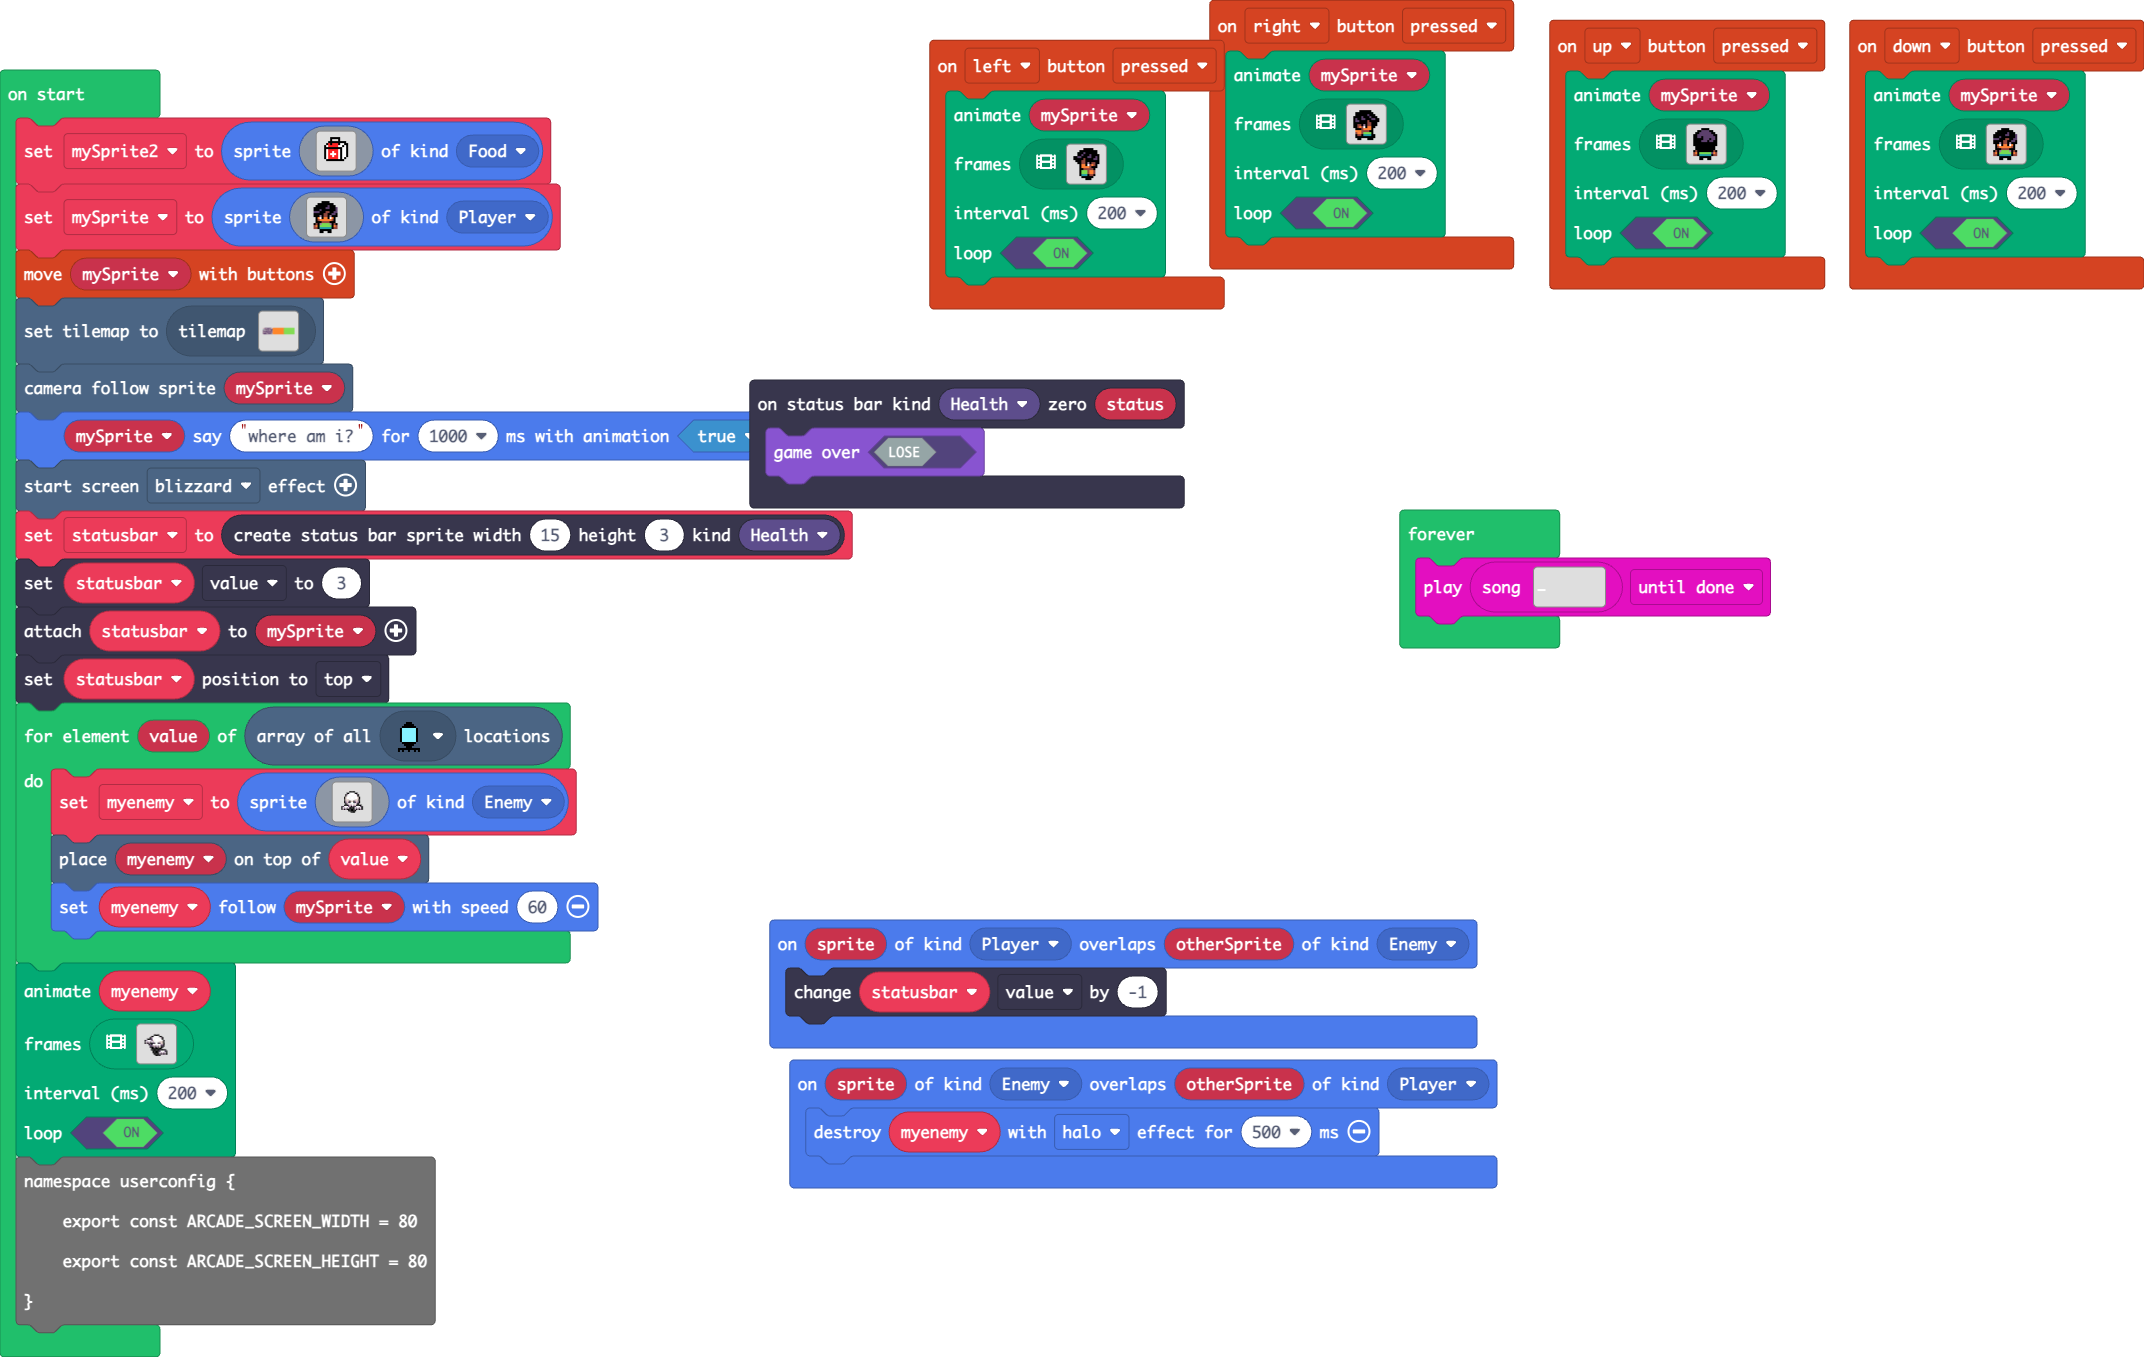
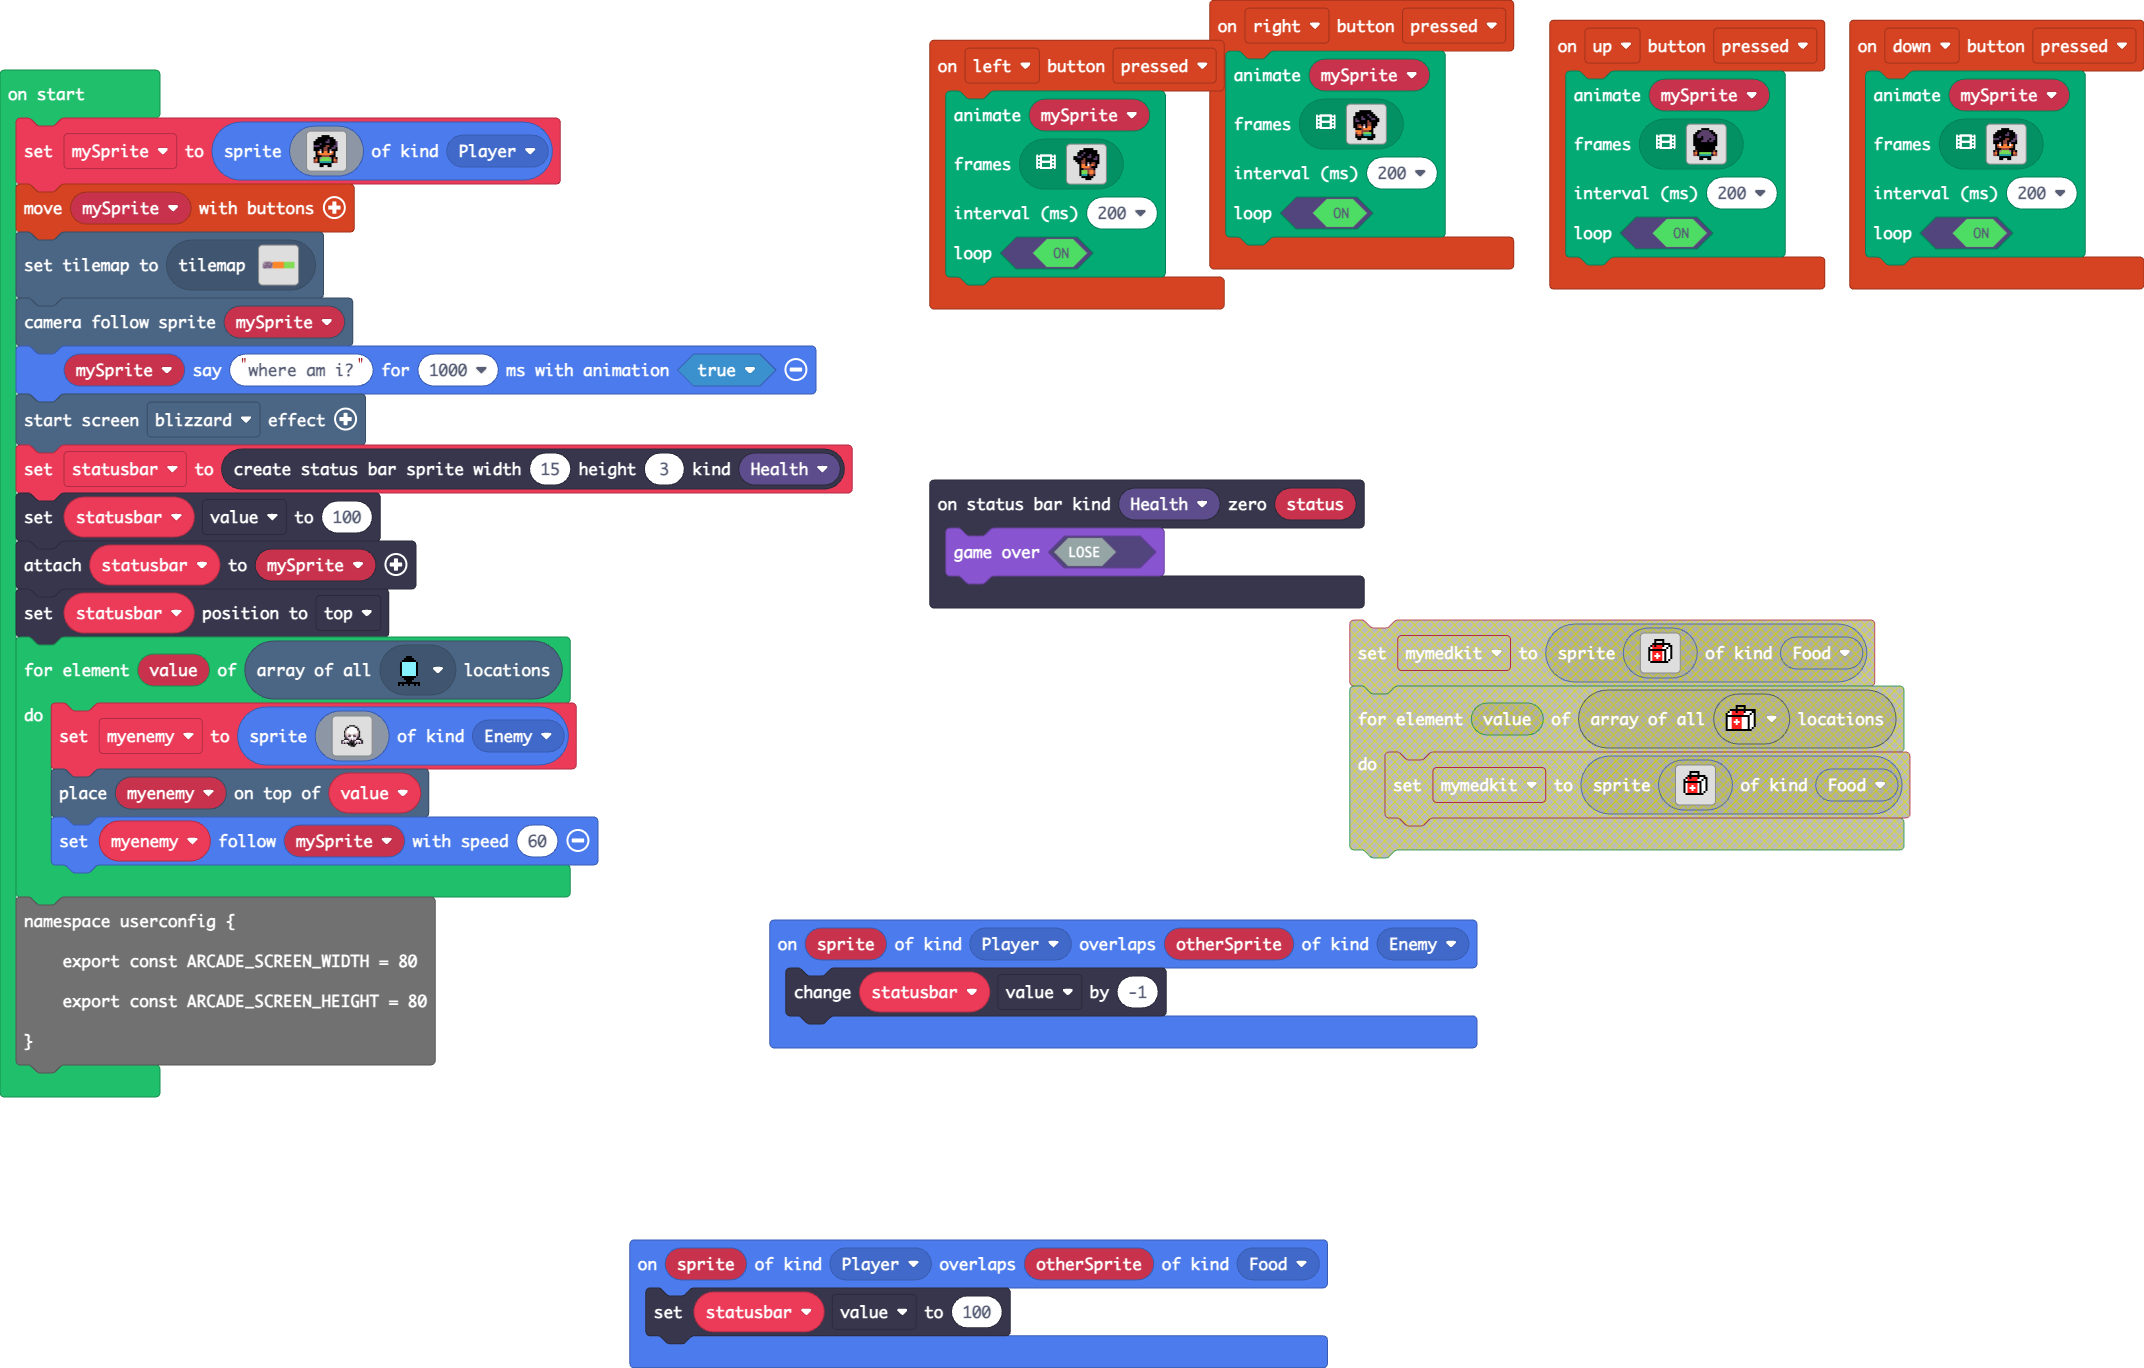
thing

diff --git a/tilemap.g.ts b/tilemap.g.ts
@@ -8,6 +8,8 @@ namespace myTiles {
     export const tile3 = image.ofBuffer(hex``);
     //% fixedInstance jres blockIdentity=images._tile
     export const tile4 = image.ofBuffer(hex``);
+    //% fixedInstance jres blockIdentity=images._tile
+    export const tile2 = image.ofBuffer(hex``);
 
     helpers._registerFactory("tilemap", function(name: string) {
         switch(helpers.stringTrim(name)) {
@@ -30,8 +32,27 @@ namespace myTiles {
 . . . . . . . . . . . . . . . . 
 . . . . . . . . . . . . . . . . 
 `, [myTiles.transparency16], TileScale.Sixteen);
+            case "level3":
+            case "level3":return tiles.createTilemap(hex`1000100000000000000000000000000000000000000000000000000000000000000000000000000000000000000000000000000000000000000000000000000000000000000000000000000000000000000000000000000000000000000000000000000000000000000000000000000000000000000000000000000000000000000000000000000000000000000000000000000000000000000000000000000000000000000000000000000000000000000000000000000000000000000000000000000000000000000000000000000000000000000000000000000000000000000000000000000000000000000000000000000000000000000000000000000000000000`, img`
+. . . . . . . . . . . . . . . . 
+. . . . . . . . . . . . . . . . 
+. . . . . . . . . . . . . . . . 
+. . . . . . . . . . . . . . . . 
+. . . . . . . . . . . . . . . . 
+. . . . . . . . . . . . . . . . 
+. . . . . . . . . . . . . . . . 
+. . . . . . . . . . . . . . . . 
+. . . . . . . . . . . . . . . . 
+. . . . . . . . . . . . . . . . 
+. . . . . . . . . . . . . . . . 
+. . . . . . . . . . . . . . . . 
+. . . . . . . . . . . . . . . . 
+. . . . . . . . . . . . . . . . 
+. . . . . . . . . . . . . . . . 
+. . . . . . . . . . . . . . . . 
+`, [myTiles.transparency16], TileScale.Sixteen);
             case "level":
[2 lines of base64/hex data omitted]
 22222.................2222......................................................
 22222..222222.........2222......................................................
 22222..2.......22222222.........................................................
@@ -61,6 +82,8 @@ namespace myTiles {
             case "tile3":return tile3;
             case "Enemy Spawner":
             case "tile4":return tile4;
+            case "MEDKIT":
+            case "tile2":return tile2;
         }
         return null;
     })

diff --git a/main.ts b/main.ts
@@ -127,9 +127,6 @@ controller.right.onEvent(ControllerButtonEvent.Pressed, function () {
     true
     )
 })
-sprites.onOverlap(SpriteKind.Enemy, SpriteKind.Player, function (sprite, otherSprite) {
-    sprites.destroy(myenemy, effects.halo, 500)
-})
 controller.down.onEvent(ControllerButtonEvent.Pressed, function () {
     animation.runImageAnimation(
     mySprite,
@@ -189,13 +186,15 @@ controller.down.onEvent(ControllerButtonEvent.Pressed, function () {
     true
     )
 })
+sprites.onOverlap(SpriteKind.Player, SpriteKind.Food, function (sprite, otherSprite) {
+    statusbar.value = 100
+})
 sprites.onOverlap(SpriteKind.Player, SpriteKind.Enemy, function (sprite, otherSprite) {
     statusbar.value += -1
 })
 let myenemy: Sprite = null
 let statusbar: StatusBarSprite = null
 let mySprite: Sprite = null
-let mySprite2 = sprites.create(assets.image`Medkit`, SpriteKind.Food)
 mySprite = sprites.create(img`
     . . . . f f f f . . . . . 
     . . f f f f f f f f . . . 
@@ -220,7 +219,7 @@ scene.cameraFollowSprite(mySprite)
 mySprite.sayText("where am i?", 1000, true)
 effects.blizzard.startScreenEffect()
 statusbar = statusbars.create(15, 3, StatusBarKind.Health)
-statusbar.value = 3
+statusbar.value = 100
 statusbar.attachToSprite(mySprite)
 statusbar.positionDirection(CollisionDirection.Top)
 for (let value of tiles.getTilesByType(assets.tile`Enemy Spawner`)) {
@@ -228,116 +227,7 @@ for (let value of tiles.getTilesByType(assets.tile`Enemy Spawner`)) {
     tiles.placeOnTile(myenemy, value)
     myenemy.follow(mySprite, 60)
 }
-animation.runImageAnimation(
-myenemy,
-[img`
-    ........................
-    ........................
-    ........................
-    ........................
-    ........................
-    ..........ffff..........
-    ........ff1111ff........
-    .......fb111111bf.......
-    .....fffc1111111f.......
-    ...fc111cd1111111f......
-    ...f1b1b1b1111dddf......
-    ...fbfbffcf11fcddf......
-    ......fcf111111bbf......
-    .......ccbdb1b1fcf......
-    .......fffbfbfdff.......
-    ........ffffffff........
-    ........fffffffffff.....
-    .........fffffc111cf....
-    .........fffff1b1b1f....
-    ..........ffffbfbfbf....
-    ...........ffff.........
-    ........................
-    ........................
-    ........................
-    `,img`
-    ........................
-    ........................
-    ........................
-    ........................
-    ........................
-    ..........ffff..........
-    ........ff1111ff........
-    .......fb111111bf.......
-    .......f11111111f.......
-    ......fd11111111df......
-    ....7.fd11111111df......
-    ...7..fd11111111df......
-    ...7..fd11111111df......
-    ...7..fddd1111dddff.....
-    ...77.fbdbfddfbdbfcf....
-    ...777fcdcf11fcdcfbf....
-    ....77fffbdb1bdffcf.....
-    ....fcb1bcffffff........
-    ....f1c1c1ffffff........
-    ....fdfdfdfffff.........
-    .....f.f.f..............
-    ........................
-    ........................
-    ........................
-    `,img`
-    ........................
-    ........................
-    ........................
-    ........................
-    ..........ffff..........
-    ........ff1111ff........
-    .......fb111111bf.......
-    .......f11111111f.......
-    ......fd111111111f......
-    ......fd11111111df......
-    ......fd11111111df......
-    ......fcdd1111ddcff.....
-    .......fbcf11fcbfbbf....
-    .......ffbdb1bdffff.....
-    ........fcbfbfdf........
-    ........ffffffff........
-    ......ffffffffff........
-    .....fcb1bcffff.........
-    ......ffbff.............
-    ........................
-    ........................
-    ........................
-    ........................
-    ........................
-    `,img`
-    ........................
-    ........................
-    ........................
-    ........................
-    ..........ffff..........
-    ........ff1111ff........
-    .......fb111111bf.......
-    .......f11111111f.......
-    ......fd11111111df......
-    ......fdd111111ddf......
-    ......fbdd1111dddf......
-    ......fcdbfddfbdbf......
-    .......fbcf11fcbfff.....
-    .......ffb1111bcfbcf....
-    ........fcdb1bdfbbbf....
-    .......ffffffffffcf.....
-    .....fcb1bcfffff........
-    .....f1b1b1ffff.........
-    ......ffbff.............
-    ........................
-    ........................
-    ........................
-    ........................
-    ........................
-    `],
-200,
-true
-)
 namespace userconfig {
     export const ARCADE_SCREEN_WIDTH = 80
     export const ARCADE_SCREEN_HEIGHT = 80
 }
-forever(function () {
[1 lines of base64/hex data omitted]
-})
